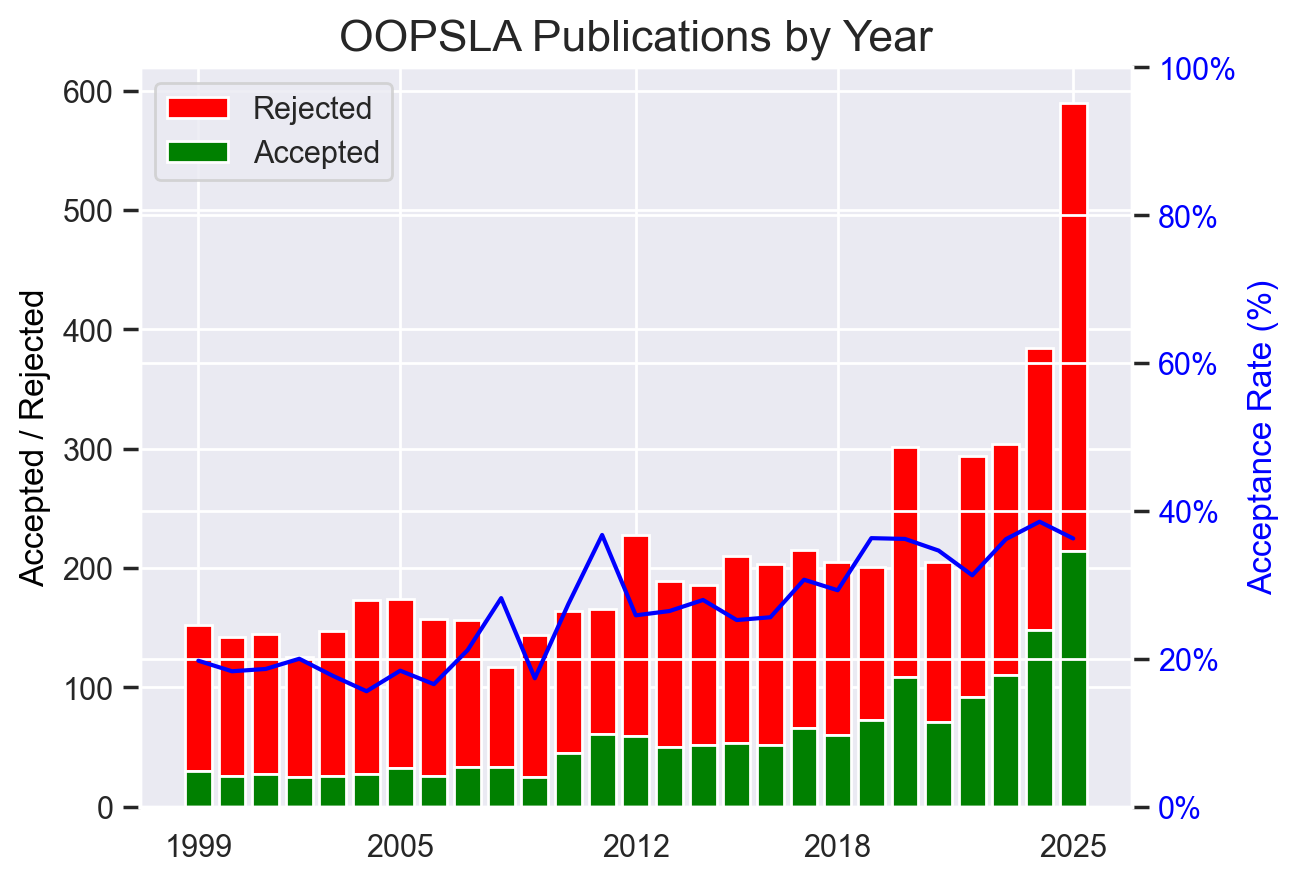
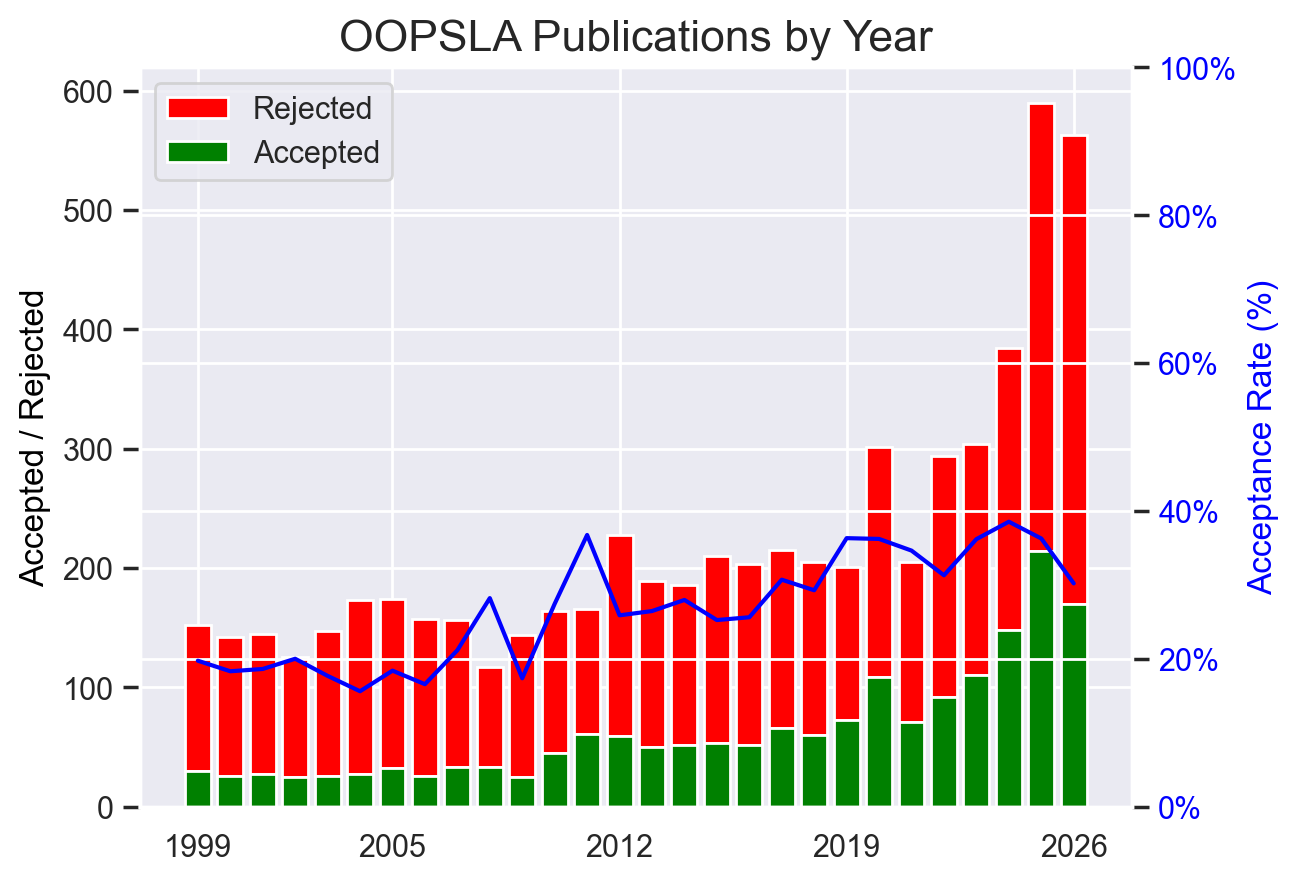
Add OOPSLA 2026 (2 rounds, 170/563) from the PACMPL editorials
Round 1: 77 accepted (75 in OOPSLA1 + 2 published in OOPSLA2); 206 decided
(227 submissions - 21 that continued to Round 2). Round 2: 93 of 357
reviewed to completion (380 considered = 359 new + 21 continuing; 23
desk-rejected/withdrawn). Each paper is counted once, in the round of
its final decision. Editorials read manually.

diff --git a/README.md b/README.md
@@ -259,7 +259,7 @@
 <IMG SRC="https://github.com/emeryberger/csconferences/blob/main/graphs/ISMM.png?raw=true" WIDTH="500">
 <A NAME="OOPSLA"></A>
 <P><B><A HREF="https://dblp.org/db/conf/oopsla/index.html">OOPSLA</A></B>
- <em>mean acceptance rate, last 5 years: 35%</em></P>
+ <em>mean acceptance rate, last 5 years: 34%</em></P>
 <IMG SRC="https://github.com/emeryberger/csconferences/blob/main/graphs/OOPSLA.png?raw=true" WIDTH="500">
 <A NAME="PLDI"></A>
 <P><B><A HREF="https://dblp.org/db/conf/pldi/index.html">PLDI</A></B>

diff --git a/static/index.md b/static/index.md
@@ -259,7 +259,7 @@
 <IMG SRC="https://github.com/emeryberger/csconferences/blob/main/graphs/ISMM.png?raw=true" WIDTH="500">
 <A NAME="OOPSLA"></A>
 <P><B><A HREF="https://dblp.org/db/conf/oopsla/index.html">OOPSLA</A></B>
- <em>mean acceptance rate, last 5 years: 35%</em></P>
+ <em>mean acceptance rate, last 5 years: 34%</em></P>
 <IMG SRC="https://github.com/emeryberger/csconferences/blob/main/graphs/OOPSLA.png?raw=true" WIDTH="500">
 <A NAME="PLDI"></A>
 <P><B><A HREF="https://dblp.org/db/conf/pldi/index.html">PLDI</A></B>
